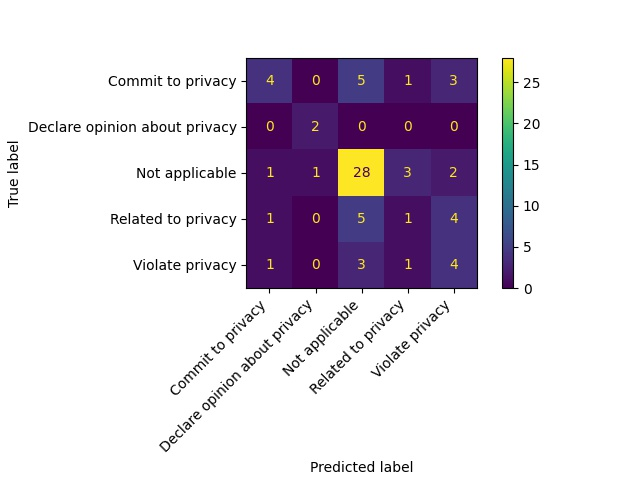
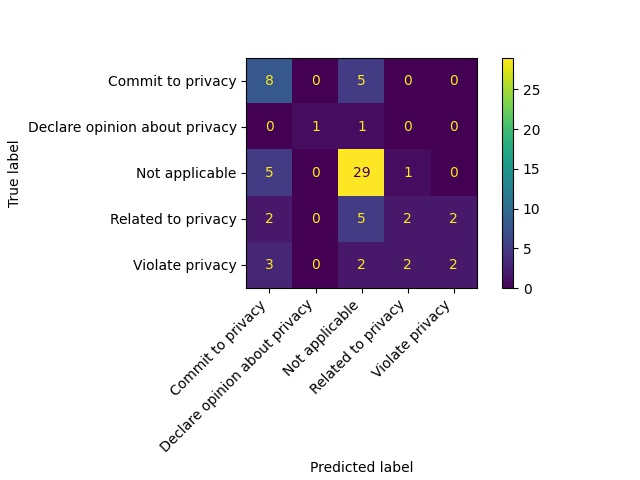
AI classifier  configurations back to best : initial + binary word representation + n_estimators 50 + learning rate: 1

diff --git a/AIclassifier.py b/AIclassifier.py
@@ -86,7 +86,7 @@ word_freq = Counter(tokens)
 # FLAG - checked
 
 # Remove words less frequent than  2 (or equal?)
-corpus_with_unk = [word[0] for word in word_freq.items() if int(word[1]) > 3] # < 2 or <= 2
+corpus_with_unk = [word[0] for word in word_freq.items() if int(word[1]) > 2] # < 2 or <= 2
 #print(corpus_with_unk)
 
 #### FLAG - REVIEW IF WORD FREQUENCY SHOULD BE COUNTED WITHOUT SPACY TOKENIZATION 
